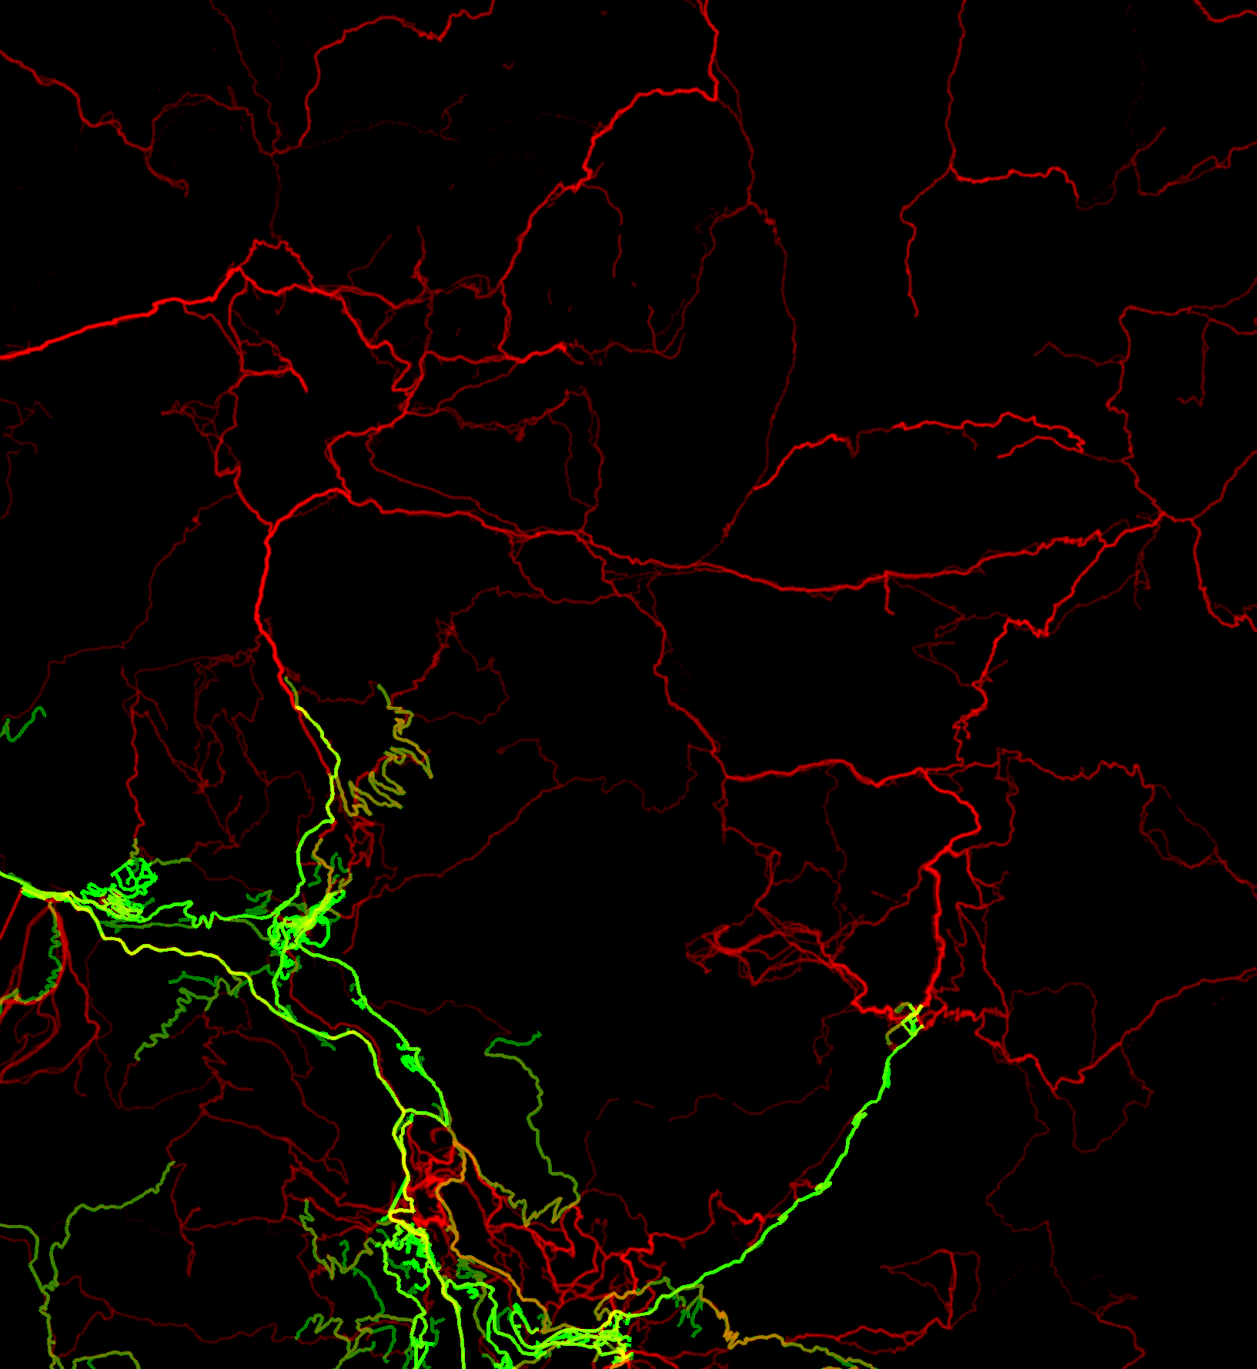
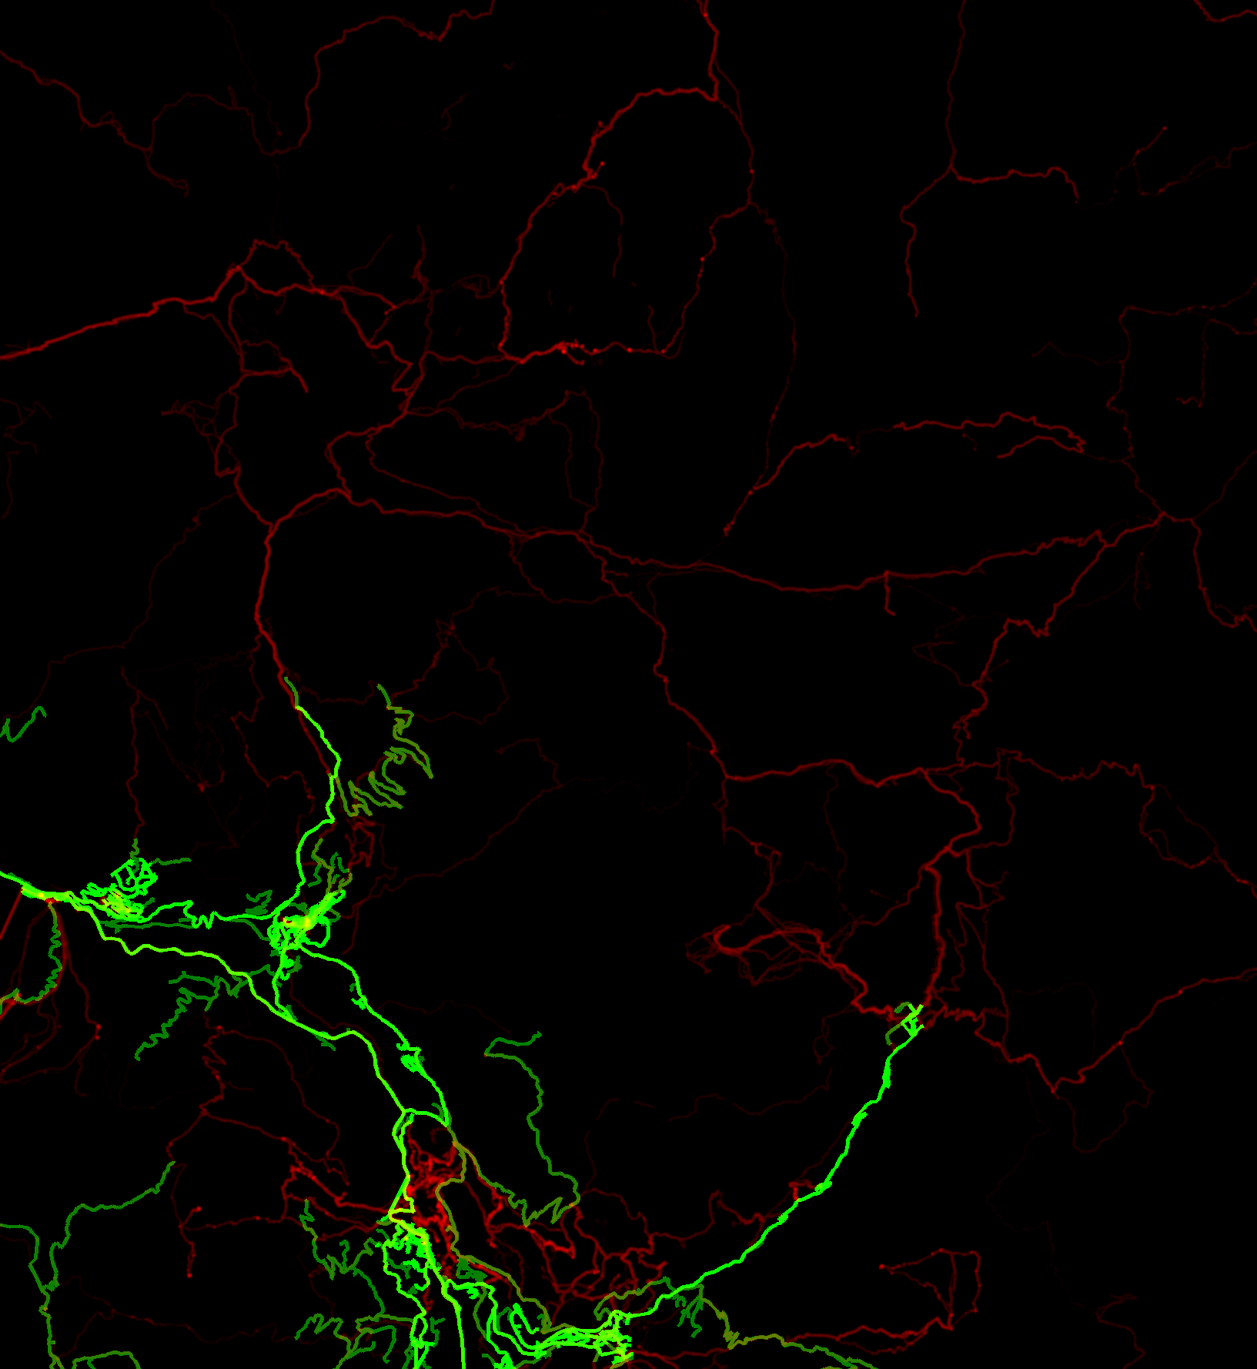
Capa de calor: cuenta también los puntos sueltos de las trazas privadas y el cartel dice el nivel de frecuentación con las cifras reales
Claude-Session: https://claude.ai/code/session_01FYGQaz8b8ccFR2s5Q8cSVz

diff --git a/js/main.js b/js/main.js
@@ -16,7 +16,7 @@ import { crearPanorama } from './panorama.js?v=9';
 import { crearUbicacion } from './ubicacion.js?v=8';
 import { crearRealidad } from './realidad.js?v=4';
 import { crearSelector } from './selector.js?v=6';
-import { t, EN_INGLES } from './i18n.js?v=12';
+import { t, EN_INGLES } from './i18n.js?v=13';
 import { reglaTexto, reglaCampo } from './i18n_reglas.js?v=4';
 
 const $ = (s) => document.querySelector(s);
@@ -281,11 +281,13 @@ async function boot() {
     }
     return null;
   }
-  const calor = { leer: () => null };   // capa «Por dónde pasa la gente» (se rellena más abajo): trazas y tipo de vía en un punto
-  const textoCalor = (c) => !c ? '' : `<small class="pico-calor">${c.trazas > 1 ? t('Por aquí pasan unas {n} trazas GPS', { n: fmt(c.trazas) }) : t('Por aquí pasa una traza GPS (puede ser una sola persona)')}${c.via ? ` · ${t(c.via === 'carretera' ? 'carretera' : 'pista')}` : ''}</small>`;
+  const calor = { leer: async () => null };   // capa «Por dónde pasa la gente» (se rellena más abajo): trazas y tipo de vía en un punto
+  // con estos datos no se puede saber cuántas personas son (los puntos de las trazas privadas llegan sueltos): se dice el nivel y, en pequeño, las cifras reales
+  const NIVEL_CALOR = ['Muy poco frecuentado: una o dos trazas, puede ser alguien que se perdió', 'Poco frecuentado', 'Frecuentado', 'Paso muy frecuentado'];
+  const textoCalor = (c) => !c ? '' : `<b>${t(NIVEL_CALOR[c.nivel])}${c.via ? ` · ${t(c.via)}` : ''}</b><small class="pico-calor">${t('{t} trazas completas y {p} puntos sueltos (GPS de OpenStreetMap)', { t: fmt(c.trazas), p: fmt(c.puntos) })}</small>`;
   async function nombrePico(cx, cy) {
     const pt = puntoDelRelieve(cx, cy); if (!pt) return;
-    const cal = calor.leer(pt.x, pt.z);
+    const cal = await calor.leer(pt.x, pt.z);
     if (cal) {   // con la capa encendida, el toque sobre un camino dice cuánta gente pasa (en el punto tocado, no en el pico)
       clearTimeout(picoTimer); picoSel = { x: pt.x, y: geo.heightAt(pt.x, pt.z), z: pt.z };
       picoEl.innerHTML = textoCalor(cal); picoEl.hidden = false; picoEl.classList.remove('is-hidden');
@@ -1176,23 +1178,28 @@ async function boot() {
     const zonas = Object.values(idx ?? {}).slice(0, NCALOR); if (!zonas.length) return;
     const b = $('#btn-calor'); b.hidden = false;
     const K = terrain.clima, lienzo = document.createElement('canvas'), cx = lienzo.getContext('2d', { willReadFrequently: true }); lienzo.width = lienzo.height = 9;
-    zonas.forEach((z, i) => { const [w, s, e, n] = z.caja, a = geo.toXZ(w, n), c = geo.toXZ(e, s); z.b = [a.x, a.z, c.x, c.z]; K.uCalorB.value[i].set(...z.b); });
+    zonas.forEach((z, i) => { const [w, s, e, n] = z.caja, a = geo.toXZ(w, n), c = geo.toXZ(e, s); z.b = [a.x, a.z, c.x, c.z]; z.datos_png = z.datos; z.datos = null; K.uCalorB.value[i].set(...z.b); });
     let on = false, cargando = null, tf = null;
     const carga = () => (cargando ??= Promise.all(zonas.map((z, i) => new Promise((res) => {
       const img = new Image(); img.onload = () => { const tx = new THREE.Texture(img); tx.colorSpace = THREE.NoColorSpace; tx.needsUpdate = true; K.uCalor.value[i] = tx; z.img = img; res(); }; img.onerror = () => res();
       img.src = `${z.png}?dv=${window.DATOS_V || 0}`;
     }))));
-    // lo que hay en un punto: trazas (máximo en ±40 m, el dedo no es preciso) y tipo de vía
-    calor.leer = (x, z0) => {
+    // lo que hay en un punto (±40 m, el dedo no es preciso), de <zona>-datos.png (se carga al primer toque): trazas completas (las públicas; el máximo,
+    // porque cada una ya cuenta una vez por píxel) y puntos sueltos de trazas privadas (la suma); el tipo de vía, del PNG de la capa
+    const px9 = (img, u, v) => { cx.clearRect(0, 0, 9, 9); cx.drawImage(img, u, v, 9, 9, 0, 0, 9, 9); return cx.getImageData(0, 0, 9, 9).data; };
+    calor.leer = async (x, z0) => {
       if (!on) return null;
       for (const z of zonas) {
         const [x0, zz0, x1, zz1] = z.b; if (!z.img || x < x0 || x > x1 || z0 < zz0 || z0 > zz1) continue;
-        const u = Math.round((x - x0) / (x1 - x0) * z.img.width) - 4, v = Math.round((z0 - zz0) / (zz1 - zz0) * z.img.height) - 4;
-        cx.clearRect(0, 0, 9, 9); cx.drawImage(z.img, u, v, 9, 9, 0, 0, 9, 9);
-        const d = cx.getImageData(0, 0, 9, 9).data; let r = 0, g = 0;
-        for (let k = 0; k < d.length; k += 4) if (d[k] > r) { r = d[k]; g = d[k + 1]; }
-        if (r < 12) return null;
-        return { trazas: Math.max(1, Math.round(Math.expm1(r / 255 * z.escala) / 2.2)), via: g > 190 ? 'carretera' : g > 64 ? 'pista' : null };
+        z.datos ??= new Promise((res) => { const im = new Image(); im.onload = () => res(im); im.onerror = () => res(null); im.src = `${z.datos_png}?dv=${window.DATOS_V || 0}`; });
+        const dat = await z.datos; if (!dat) return null;
+        const u = Math.round((x - x0) / (x1 - x0) * dat.width) - 4, v = Math.round((z0 - zz0) / (zz1 - zz0) * dat.height) - 4;
+        const d = px9(dat, u, v); let trazas = 0, puntos = 0;
+        for (let k = 0; k < d.length; k += 4) { trazas = Math.max(trazas, d[k]); puntos += d[k + 1] * 256 + d[k + 2]; }
+        if (!trazas && puntos < 3) return null;
+        const c = px9(z.img, u, v); let g = 0, r = 0; for (let k = 0; k < c.length; k += 4) if (c[k] > r) { r = c[k]; g = c[k + 1]; }
+        const pasadas = trazas + puntos / 40;   // a pie, un GPS deja varias decenas de puntos al cruzar 90 m
+        return { trazas, puntos, nivel: pasadas >= 40 ? 3 : pasadas >= 10 ? 2 : pasadas >= 2.5 ? 1 : 0, via: g > 190 ? 'carretera' : g > 64 ? 'pista' : null };
       }
       return null;
     };
@@ -1354,7 +1361,7 @@ async function boot() {
       <h3>Visits</h3>
       <p>This website uses <a href="https://www.goatcounter.com" target="_blank" rel="noopener">GoatCounter</a>, a visit counter without cookies that stores no personal data and does not follow you around other websites: it only counts how many times each page is opened.</p>
       <h3>Where people go</h3>
-      <p>The footprints button lights up the places where people have passed with a GPS: faint orange for a few traces and yellow for many. Roads are shown in greyish blue and dirt tracks in sand, because many people also record GPS in the car. Tap a path to see how many traces pass there; while it is on, the example route turns green. It is made from the public GPS traces that people upload to <a href="https://www.openstreetmap.org/traces" target="_blank" rel="noopener">© OpenStreetMap</a>: the brighter, the more traces. It helps you spot the most trodden paths, for example to get back to a known trail if you leave your route. <b>It does not say whether a passage is safe</b>: there are traces across glaciers, snowfields and gullies, and from people who also got lost. A faint glow can be a single person.</p>
+      <p>The footprints button lights up the places where people have passed with a GPS: faint orange for a few traces and yellow for many. Roads are shown in greyish blue and dirt tracks in sand, because many people also record GPS in the car. Tap a path to see whether it is very busy, used, rarely or very rarely used, with the real figures below: full traces (those people upload as public) and loose points (from private ones, which arrive mixed up, so the number of people cannot be known); while it is on, the example route turns green. It is made from the public GPS traces that people upload to <a href="https://www.openstreetmap.org/traces" target="_blank" rel="noopener">© OpenStreetMap</a>: the brighter, the more traces. It helps you spot the most trodden paths, for example to get back to a known trail if you leave your route. <b>It does not say whether a passage is safe</b>: there are traces across glaciers, snowfields and gullies, and from people who also got lost. A faint glow can be a single person.</p>
       <h3>Safety</h3>
       <p>This website does not replace a guidebook, a conditions report or experience in high mountains. Always check the forecast and the state of the route before setting out.</p>`;
       return;
@@ -1395,7 +1402,7 @@ async function boot() {
       <h3>Visitas</h3>
       <p>Esta web usa <a href="https://www.goatcounter.com" target="_blank" rel="noopener">GoatCounter</a>, un contador de visitas sin cookies que no guarda datos personales ni te sigue por otras webs: solo cuenta cuántas veces se abre cada página.</p>
       <h3>Por dónde pasa la gente</h3>
-      <p>El botón de las huellas ilumina los sitios por donde ha pasado gente con GPS: naranja tenue si son pocas trazas y amarillo si son muchas. Las carreteras se ven en azul grisáceo y las pistas en color arena, porque mucha gente graba el GPS también en el coche. Tocando un camino dice cuántas trazas pasan por allí, y mientras está encendido, la ruta de ejemplo se pinta en verde. Está hecho con las trazas GPS públicas que la gente sube a <a href="https://www.openstreetmap.org/traces" target="_blank" rel="noopener">© OpenStreetMap</a>: cuanto más brilla, más trazas. Sirve para ver los caminos más pisados, por ejemplo para volver a una senda conocida si te sales de la ruta. <b>No dice si un paso es seguro</b>: hay trazas por glaciares, neveros y canales, y de gente que también se perdió. Un brillo débil puede ser una sola persona.</p>
+      <p>El botón de las huellas ilumina los sitios por donde ha pasado gente con GPS: naranja tenue si son pocas trazas y amarillo si son muchas. Las carreteras se ven en azul grisáceo y las pistas en color arena, porque mucha gente graba el GPS también en el coche. Tocando un camino dice si es un paso muy frecuentado, frecuentado, poco o muy poco, con las cifras reales debajo: trazas completas (las que la gente sube como públicas) y puntos sueltos (de las privadas, que llegan mezclados y no permiten saber cuántas personas son), y mientras está encendido, la ruta de ejemplo se pinta en verde. Está hecho con las trazas GPS públicas que la gente sube a <a href="https://www.openstreetmap.org/traces" target="_blank" rel="noopener">© OpenStreetMap</a>: cuanto más brilla, más trazas. Sirve para ver los caminos más pisados, por ejemplo para volver a una senda conocida si te sales de la ruta. <b>No dice si un paso es seguro</b>: hay trazas por glaciares, neveros y canales, y de gente que también se perdió. Un brillo débil puede ser una sola persona.</p>
       <h3>Seguridad</h3>
       <p>Esta web no sustituye a una guía, a un parte de condiciones ni a la experiencia en alta montaña. Consulta siempre la previsión y el estado de la ruta antes de salir.</p>`;
   }

diff --git a/js/i18n.js b/js/i18n.js
@@ -89,7 +89,7 @@ const EN = {
   '{n} de {t} cumbres': '{n} of {t} summits',
   // — selector de cumbres —
   'Cerrar el selector': 'Close the selector', 'Qué cumbres ver': 'Which summits to show', 'Menos de 3.000': 'Below 3,000', 'Más altas': 'Highest',
-  'Por dónde pasa la gente': 'Where people go', 'Por aquí pasan unas {n} trazas GPS': 'About {n} GPS traces pass here', 'Por aquí pasa una traza GPS (puede ser una sola persona)': 'One GPS trace passes here (it may be a single person)', 'carretera': 'road', 'pista': 'dirt track', 'discutida': 'disputed', 'Cimas secundarias': 'Secondary summits', 'Las más cercanas al centro del mapa': 'Closest to the centre of the map', 'Las más altas': 'The highest',
+  'Por dónde pasa la gente': 'Where people go', 'Muy poco frecuentado: una o dos trazas, puede ser alguien que se perdió': 'Very rarely used: one or two traces, it may be someone who got lost', 'Poco frecuentado': 'Rarely used', 'Frecuentado': 'Used', 'Paso muy frecuentado': 'Very busy route', '{t} trazas completas y {p} puntos sueltos (GPS de OpenStreetMap)': '{t} full traces and {p} loose points (OpenStreetMap GPS)', 'carretera': 'road', 'pista': 'dirt track', 'discutida': 'disputed', 'Cimas secundarias': 'Secondary summits', 'Las más cercanas al centro del mapa': 'Closest to the centre of the map', 'Las más altas': 'The highest',
   'Ninguna cumbre con estos filtros.': 'No summits with these filters.', 'Todavía no has marcado ninguna cumbre como subida.': 'You have not marked any summit as climbed yet.',
   'Ninguna cumbre coincide con «{q}».': 'No summit matches “{q}”.', ' Prueba a quitar los filtros.': ' Try clearing the filters.',
   'Con filtros: {n} de {t} cumbres': 'Filtered: {n} of {t} summits', 'también «{n}»': 'also “{n}”',

diff --git a/index.html b/index.html
@@ -3,7 +3,7 @@
 <head>
   <meta charset="utf-8">
   <script>/* versión publicada: si el navegador muestra una copia vieja de esta página, recarga sola con la nueva (version.json no se guarda en caché) */
-  window.WEB_V = 359;
+  window.WEB_V = 360;
   fetch('version.json?t=' + Date.now(), { cache: 'no-store' }).then((r) => r.json()).then((j) => {
     if (!(j.v > window.WEB_V)) return;
     const u = new URL(location.href); if (u.searchParams.get('r') === String(j.v)) return;   // ya se pidió esa versión: no repetir
@@ -129,9 +129,9 @@
   <!-- la cuenta de GoatCounter es compartida con otras webs: Tresmiles se apunta siempre como «/tresmiles» (sin ?… ni la dirección), para poder contarla aparte -->
   <script>window.goatcounter = { path: () => '/tresmiles' };</script>
   <script data-goatcounter="https://skyllion.goatcounter.com/count" async src="https://gc.zgo.at/count.js"></script>
-  <script>window.DATOS_V = 222;</script>
-  <script type="module" src="js/i18n.js?v=12"></script>
-  <script type="module" src="js/main.js?v=359"></script>
+  <script>window.DATOS_V = 223;</script>
+  <script type="module" src="js/i18n.js?v=13"></script>
+  <script type="module" src="js/main.js?v=360"></script>
   <script defer src="js/cine.js?v=7"></script>
 </body>
 </html>

diff --git a/js/panorama.js b/js/panorama.js
@@ -2,7 +2,7 @@
 // Cálculo propio con el relieve de 120 m (nivel 4 de los bloques, ~1 MB, se pide la primera vez); no toca el relieve del mapa. La visibilidad de cada cumbre se decide con una línea
 // de visión sobre ese relieve (con curvatura de la Tierra y refracción media), con tolerancia porque la malla de 120 m redondea los picos. Es orientativo.
 // Modo brújula: el panorama gira con el móvil y un nombre arriba dice a qué cumbre apuntas (DeviceOrientation; en Android «absolute», en iPhone webkitCompassHeading).
-import { t, EN_INGLES } from './i18n.js?v=12';
+import { t, EN_INGLES } from './i18n.js?v=13';
 const RT = 6371000, K_REF = 0.13, CURV = (1 - K_REF) / (2 * RT);
 const BANDAS = [4000, 12000, 30000, 60000, 1e9];   // límites de distancia de las capas (m), de cerca a lejos
 const COLORES = ['#2f4c45', '#4a6a60', '#6d8b85', '#93a9ac', '#b8c7ce'];   // de cerca a lejos (más lejos = más claro, como la bruma)

diff --git a/js/selector.js b/js/selector.js
@@ -1,6 +1,6 @@
 // Selector de cumbres (el del inicio y el del mapa): buscador sin tildes que mira también los nombres alternativos,
 // macizos plegados de oeste a este con su número, principales primero y secundarias plegadas dentro de cada macizo.
-import { t as tr, EN_INGLES } from './i18n.js?v=12';   // «tr»: aquí «t» es nombre de variable en muchas funciones
+import { t as tr, EN_INGLES } from './i18n.js?v=13';   // «tr»: aquí «t» es nombre de variable en muchas funciones
 const esc = (s) => String(s ?? '').replace(/[&<>"']/g, (c) => ({ '&': '&amp;', '<': '&lt;', '>': '&gt;', '"': '&quot;', "'": '&#39;' }[c]));
 const fmt = (n) => new Intl.NumberFormat(EN_INGLES ? 'en-GB' : 'es-ES', { useGrouping: 'always' }).format(n);
 

diff --git a/js/ruta.js b/js/ruta.js
@@ -1,6 +1,6 @@
 import * as THREE from 'three';
 import { crearMontaneroAnim as crearMontanero } from './montanero_anim.js?v=7';
-import { t as tr } from './i18n.js?v=12';
+import { t as tr } from './i18n.js?v=13';
 
 // Recorrido (track GPX simplificado) dibujado sobre el relieve, con perfil de altura interactivo y vuelo.
 // color de la línea de ruta, compartido por todas: naranja; pasa a verde vivo con la capa «Por dónde pasa la gente» (naranja) para no confundirse con ella

diff --git a/js/ubicacion.js b/js/ubicacion.js
@@ -4,7 +4,7 @@
 // 3.º, apagar. Mover el mapa con el dedo deja de seguir sin cambiar de modo; el siguiente toque vuelve a seguir.
 import * as THREE from 'three';
 import { leeOrientacion } from './panorama.js?v=9';
-import { t, EN_INGLES } from './i18n.js?v=12';
+import { t, EN_INGLES } from './i18n.js?v=13';
 
 const RAD = Math.PI / 180;
 const km = (lat1, lon1, lat2, lon2) => {   // distancia en línea recta sobre la Tierra (km)

diff --git a/tools/build_calor.py b/tools/build_calor.py
@@ -1,11 +1,14 @@
 #!/usr/bin/env python3
 """Mapa de calor «Por dónde pasa la gente» a partir de las trazas GPS públicas de OpenStreetMap.
 Entrada: los GPX que devuelve la API de OSM (api/0.6/trackpoints?bbox=…&page=N), bajados con tools/bajar_calor.sh en tools/datos/calor/<zona>_<página>.gpx.
-Cada traza identificable se dibuja como línea entre puntos seguidos (si no están a más de 120 m: saltos del GPS) y cuenta una sola vez por píxel,
-así el valor del píxel es «cuántas trazas pasan por aquí», no cuántos puntos. Las trazas privadas llegan como puntos sueltos sin orden: suman solo su punto.
-Salida: data/calor/<zona>.png (RGB, 10 m por píxel, norte arriba) y data/calor/index.json (recuadro lon/lat y escala de cada zona).
-  R: log de las trazas por píxel, normalizado (trazas ≈ expm1(R / 255 · escala) / 2,2).
+Cada traza identificable (pública) se dibuja como línea entre puntos seguidos (si no están a más de 120 m: saltos del GPS) y cuenta una sola vez por píxel.
+Las trazas privadas llegan como puntos sueltos, mezclados y sin orden (no se sabe cuántas personas son): se cuentan punto a punto y pesan como una pasada
+cada PUNTOS_PASADA puntos (a pie, un GPS deja unos cuantos puntos al cruzar un píxel de 10 m; en las cimas, donde la gente se para, muchos más).
+Salida: data/calor/<zona>.png (RGB, 10 m por píxel, norte arriba; la textura de la capa), data/calor/<zona>-datos.png (lo que dice el cartel al tocar)
+y data/calor/index.json (recuadro lon/lat de cada zona).
+  <zona>.png — R: brillo, log de las pasadas equivalentes por píxel (trazas + puntos / PUNTOS_PASADA) con la misma escala en todas las zonas.
   G: tipo de vía de OpenStreetMap: 255 carretera o calle, 128 pista, 0 sendero o monte (la capa lo dice con otro color: mucha gente graba el GPS en el coche).
+  <zona>-datos.png — R: trazas completas por píxel (hasta 255), G·256 + B: puntos sueltos por píxel (hasta 65.535); sin difuminar.
 Datos © colaboradores de OpenStreetMap.
 Uso: python3 tools/build_calor.py [zona ...]   (sin zonas: todas las de ZONAS que tengan GPX)"""
 import glob, json, math, os, sys, time, urllib.parse, urllib.request, xml.etree.ElementTree as ET
@@ -18,6 +21,8 @@ DATOS = os.path.join(ROOT, 'tools/datos/calor')
 ZONAS = {'aneto': (0.55, 42.58, 0.76, 42.72), 'benasque': (0.40, 42.55, 0.55, 42.74), 'posets': (0.25, 42.55, 0.40, 42.75), 'perdido-e': (0.05, 42.60, 0.25, 42.76),
          'perdido-o': (-0.06, 42.60, 0.05, 42.76), 'vignemale': (-0.18, 42.64, -0.06, 42.82), 'balaitus': (-0.38, 42.72, -0.18, 42.88)}   # las mismas que tools/bajar_calor.sh
 PX = 10.0   # metros por píxel
+PUNTOS_PASADA = 5   # puntos sueltos que equivalen a una pasada por un píxel
+REF = 60.0   # pasadas equivalentes que dan el brillo máximo (igual en todas las zonas, para que se puedan comparar)
 NS = '{http://www.topografix.com/GPX/1/0}'
 CARRETERA = {'motorway', 'trunk', 'primary', 'secondary', 'tertiary', 'unclassified', 'residential', 'living_street', 'service', 'motorway_link', 'trunk_link', 'primary_link', 'secondary_link', 'tertiary_link'}
 UA = {'User-Agent': 'tresmiles/1.0 (proyecto educativo)'}
@@ -42,7 +47,7 @@ def hacer(zona):
     mLat, mLon = 111132, 111320 * math.cos(math.radians((s + n) / 2))
     W, H = int((e - w) * mLon / PX), int((n - s) * mLat / PX)
     px = lambda lat, lon: ((lon - w) * mLon / PX, (n - lat) * mLat / PX)
-    cuenta = np.zeros((H, W), np.uint16)
+    cuenta = np.zeros((H, W), np.uint16); sueltos = np.zeros((H, W), np.uint32)
 
     def linea(pts):
         vis = set()
@@ -65,13 +70,16 @@ def hacer(zona):
             for seg in trk.iter(NS + 'trkseg'):
                 pts = [px(float(p.get('lat')), float(p.get('lon'))) for p in seg.iter(NS + 'trkpt')]
                 puntos += len(pts)
-                vis = linea(pts) if ident else {(int(y), int(x)) for x, y in pts}
-                den = [(y, x) for y, x in vis if 0 <= y < H and 0 <= x < W]   # una traza puede caer entera fuera del recuadro
-                if den: ys, xs = zip(*den); cuenta[list(ys), list(xs)] += 1
+                if ident:
+                    den = [(y, x) for y, x in linea(pts) if 0 <= y < H and 0 <= x < W]   # una traza puede caer entera fuera del recuadro
+                    if den: ys, xs = zip(*den); cuenta[list(ys), list(xs)] += 1
+                else:
+                    q = np.array([(int(y), int(x)) for x, y in pts if 0 <= y < H and 0 <= x < W], np.int64).reshape(-1, 2)
+                    if len(q): np.add.at(sueltos, (q[:, 0], q[:, 1]), 1)
                 trazas += ident
     # un poco de difuminado (el GPS tiene 5-15 m de error) y escala logarítmica: una traza ya se ve, cien se ven mucho más
-    v = gaussian_filter(cuenta.astype(np.float32), 1.2)
-    v = np.log1p(v * 2.2); escala = float(max(np.percentile(v[v > 0], 99.7), 1e-6)); v = np.clip(v / escala, 0, 1)
+    v = gaussian_filter(cuenta.astype(np.float32) + sueltos.astype(np.float32) / PUNTOS_PASADA, 1.2)
+    v = np.clip(np.log1p(v * 2.2) / math.log1p(REF * 2.2), 0, 1)
     # carreteras (255) y pistas (128), con unos 50 m de ancho para cubrir el error del GPS
     via = Image.new('L', (W, H), 0); dr = ImageDraw.Draw(via)
     for el in sorted(vias(zona, w, s, e, n), key=lambda el: el.get('tags', {}).get('highway') != 'track', reverse=False):
@@ -81,10 +89,12 @@ def hacer(zona):
     rgb = np.dstack([(v * 255).astype(np.uint8), np.array(via), np.zeros((H, W), np.uint8)])
     os.makedirs(os.path.join(ROOT, 'data/calor'), exist_ok=True)
     Image.fromarray(rgb, 'RGB').save(os.path.join(ROOT, 'data/calor', f'{zona}.png'), optimize=True)
+    sc = np.minimum(sueltos, 65535)
+    Image.fromarray(np.dstack([np.minimum(cuenta, 255).astype(np.uint8), (sc >> 8).astype(np.uint8), (sc & 255).astype(np.uint8)]), 'RGB').save(os.path.join(ROOT, 'data/calor', f'{zona}-datos.png'), optimize=True)
     I = os.path.join(ROOT, 'data/calor/index.json')
     idx = json.load(open(I)) if os.path.exists(I) else {}
-    idx[zona] = {'caja': [w, s, e, n], 'trazas': trazas, 'escala': round(escala, 4), 'png': f'data/calor/{zona}.png'}
+    idx[zona] = {'caja': [w, s, e, n], 'trazas': trazas, 'png': f'data/calor/{zona}.png', 'datos': f'data/calor/{zona}-datos.png'}
     json.dump(dict(sorted(idx.items())), open(I, 'w'), ensure_ascii=False, indent=1)
-    print(f'{zona}: {trazas} trazas identificables, {puntos} puntos, {W}×{H} px, máximo {cuenta.max()} trazas en un píxel')
+    print(f'{zona}: {trazas} trazas identificables, {puntos} puntos, {W}×{H} px, máximo {cuenta.max()} trazas y {sueltos.max()} puntos sueltos en un píxel')
 
 for z in sys.argv[1:] or ZONAS: hacer(z)
